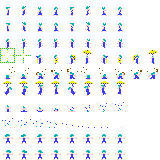
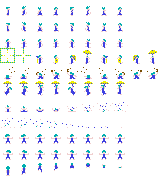
Add safe lemming animation + properly remove lemming after animation

diff --git a/Lemmings/02-Lemming/Lemming.cpp b/Lemmings/02-Lemming/Lemming.cpp
@@ -18,7 +18,7 @@ void Lemming::init(const glm::vec2 &initialPosition, ShaderProgram &shaderProgra
 	pending_state = NULL_STATE;
 	pending_floater = false;
 	sprite = Sprite::createSprite(glm::ivec2(16, 16), glm::vec2(0.1, 16.0f / SPRITE_HEIGHT), lemmingTexture, &shaderProgram);
-	sprite->setNumberAnimations(11);
+	sprite->setNumberAnimations(12);
 	
 		sprite->setAnimationSpeed(LemmingAnims::WALKING_RIGHT, 12);
 		for(int i=0; i<8; i++)
@@ -67,6 +67,10 @@ void Lemming::init(const glm::vec2 &initialPosition, ShaderProgram &shaderProgra
 			sprite->addKeyframe(LemmingAnims::BLOCKER_ANIM, glm::vec2(float(i) / 10, 128.0f / SPRITE_HEIGHT));
 		for (int i = 0; i<8; i++)
 			sprite->addKeyframe(LemmingAnims::BLOCKER_ANIM, glm::vec2(float(i) / 10, 144.0f / SPRITE_HEIGHT));
+
+		sprite->setAnimationSpeed(LemmingAnims::SAFE, 12);
+		for (int i = 0; i<8; i++)
+			sprite->addKeyframe(LemmingAnims::SAFE, glm::vec2(float(i) / 10, 160.0f / SPRITE_HEIGHT));
 		
 	sprite->changeAnimation(LemmingAnims::FALLING_RIGHT);
 	sprite->setPosition(initialPosition);
@@ -184,11 +188,25 @@ void Lemming::update(int deltaTime, int offset)
 			state = DEAD_STATE;
 		}
 		break;
+	case ARRIVE_STATE:
+		if (sprite->keyFrame() == 7) {
+			state = SAFE_STATE;
+		}
+		break;
 	}
 }
 
 bool Lemming::isDead() {
 	return state == DEAD_STATE;
+}
+
+bool Lemming::isArriving()
+{
+	return state == ARRIVE_STATE;
+}
+
+bool Lemming::isSafe() {
+	return state == SAFE_STATE;
 }
 
 bool Lemming::isBusy()
@@ -229,6 +247,12 @@ bool Lemming::setSkill(LemmingSkill newSkill)
 	return true;
 }
 
+void Lemming::lemmingArrived()
+{
+	sprite->changeAnimation(LemmingAnims::SAFE);
+	state = ARRIVE_STATE;
+}
+
 Lemming::LemmingState Lemming::getStateFromSkill(LemmingSkill skill) 
 {
 
@@ -262,16 +286,6 @@ bool Lemming::isSameSkill(LemmingSkill newSkill)
 void Lemming::_dig(LemmingAnims fallAnim, LemmingState fallState)
 {
 	int posX, posY;
-	if (sprite->keyFrame() % 5 == 0) {
-		sprite->position() += glm::vec2(0, 1);
-
-		posX = int(sprite->position().x) + lem_offset + 7;
-		posY = int(sprite->position().y) + 14;
-		for (int y = max(0, posY); y <= min(mask->height() - 1, posY); y++)
-			for (int x = max(0, posX - 4); x <= min(mask->width() - 1, posX + 5); x++)
-				mask->setPixel(x, y, 0);
-	}
-
 	int fall = collisionFloor(3);
 	if (fall > 0) {
 		sprite->position() += glm::vec2(0, 1);
@@ -280,10 +294,20 @@ void Lemming::_dig(LemmingAnims fallAnim, LemmingState fallState)
 		sprite->changeAnimation(fallAnim);
 		state = fallState;
 	}
+	else if (sprite->keyFrame() % 5 == 0) {
+		sprite->position() += glm::vec2(0, 1);
+
+		posX = int(sprite->position().x) + lem_offset + 7;
+		posY = int(sprite->position().y) + 15;
+		for (int y = max(0, posY); y <= min(mask->height() - 1, posY); y++)
+			for (int x = max(0, posX - 4); x <= min(mask->width() - 1, posX + 5); x++)
+				mask->setPixel(x, y, 0);
+	}
+
 }
 
 
-void Lemming::_walk(LemmingAnims fallAnimation, LemmingState fallState) 
+void Lemming::_walk(LemmingAnims fallAnimation, LemmingState fallState)
 {
 	int fall = collisionFloor(3);
 	if (fall > 0)

diff --git a/Lemmings/02-Lemming/Lemming.h b/Lemmings/02-Lemming/Lemming.h
@@ -22,7 +22,7 @@ public:
 	{
 		NULL_STATE, WALKING_LEFT_STATE, WALKING_RIGHT_STATE, FALLING_LEFT_STATE, FALLING_RIGHT_STATE, FALL_DIE_STATE,
 		BLOCKER_RIGHT_STATE, BLOCKER_LEFT_STATE, DIGGER_RIGHT_STATE, DIGGER_LEFT_STATE, FLOATER_RIGHT_STATE, FLOATER_LEFT_STATE,
-		DEAD_STATE
+		DEAD_STATE, ARRIVE_STATE, SAFE_STATE
 	};
 
 public:
@@ -31,6 +31,8 @@ public:
 	void render();
 
 	bool isDead();
+	bool isArriving();
+	bool isSafe();
 	bool isBusy();
 
 	void remove();
@@ -39,9 +41,10 @@ public:
 
 	glm::vec2 getPosition();
 	bool setSkill(LemmingSkill newSkill);
+	void lemmingArrived();
 	
 private:
-	const float SPRITE_HEIGHT = 160.0f;
+	const float SPRITE_HEIGHT = 176.0f;
 
 	const float GRAVITY = 0.05f;
 	const float MAXIMUM_FALL_SPEED = 3.0f;
@@ -58,7 +61,7 @@ private:
 
 	enum LemmingAnims
 	{
-		WALKING_LEFT, WALKING_RIGHT, FALLING_LEFT, FALLING_RIGHT, DIGGING, FLOATER_INI_RIGHT, FLOATER_INI_LEFT, FLOATER_RIGHT, FLOATER_LEFT, FALL_DIE, BLOCKER_ANIM
+		WALKING_LEFT, WALKING_RIGHT, FALLING_LEFT, FALLING_RIGHT, DIGGING, FLOATER_INI_RIGHT, FLOATER_INI_LEFT, FLOATER_RIGHT, FLOATER_LEFT, FALL_DIE, BLOCKER_ANIM, SAFE
 	};
 
 private:

diff --git a/Lemmings/02-Lemming/Scene.cpp b/Lemmings/02-Lemming/Scene.cpp
@@ -82,6 +82,10 @@ void Scene::update(int deltaTime)
 			
 		lemmings[i]->update(deltaTime, int(level.offset));
 		if (lemmings[i]->isDead()) removeLemming(i);
+		else if (lemmings[i]->isSafe()) {
+			removeLemming(i);
+			++safeLemmings;
+		}
 		else checkIfLemmingSafe(i);
 	}
 
@@ -89,7 +93,7 @@ void Scene::update(int deltaTime)
 	if (aliveLemmings == 0) {
 		finishLevel();
 	}
-	spawnDoor->update(deltaTime, currentTime/1000);
+	spawnDoor->update(deltaTime, int(currentTime/1000));
 	door->update(deltaTime, 0);
 	checkSelecting();
 }
@@ -341,11 +345,11 @@ void Scene::checkIfLemmingSafe(int lemmingId) {
 	initialPoint.y += 48 - safeSquare.y / 2;
 	endingPoint.y += 48 - safeSquare.y / 2;
 
-	//if (!lemmings[lemmingId]) return; NO ARREGLA EL ERROR
 	Lemming * lemming = lemmings[lemmingId];
-	if (lemmingColideWith(lemming, initialPoint, endingPoint)) {
-		removeLemming(lemmingId);
-		++safeLemmings;
+	if (!lemmings[lemmingId]->isArriving()) {
+		if (lemmingColideWith(lemming, initialPoint, endingPoint)) {
+			lemmings[lemmingId]->lemmingArrived();
+		}
 	}
 }
 

diff --git a/Lemmings/02-Lemming/cursor.cpp b/Lemmings/02-Lemming/cursor.cpp
@@ -9,16 +9,15 @@ void Cursor::initCursor(ShaderProgram &shaderProgram)
 {
 	spritesheet.loadFromFile("images/lemming.png", TEXTURE_PIXEL_FORMAT_RGBA);
 	spritesheet.setMinFilter(GL_NEAREST);
-	spritesheet.setMagFilter(GL_NEAREST);
-	sprite_h = 160.0f;
-	sprite = Sprite::createSprite(glm::ivec2(16, 16), glm::vec2(0.1, 16.0f / sprite_h), &spritesheet, &shaderProgram);
+	spritesheet.setMagFilter(GL_NEAREST);	
+	sprite = Sprite::createSprite(glm::ivec2(16, 16), glm::vec2(0.1, 16.0f / SPRITE_HEIGHT), &spritesheet, &shaderProgram);
 	sprite->setNumberAnimations(2);
 
 		sprite->setAnimationSpeed(NORMAL, 12);	// NORMAL
-		sprite->addKeyframe(NORMAL, glm::vec2(float(1) / 10, 48.0f / sprite_h));
+		sprite->addKeyframe(NORMAL, glm::vec2(float(1) / 10, 48.0f / SPRITE_HEIGHT));
 
 		sprite->setAnimationSpeed(SELECT, 12);	// SELECTED
-		sprite->addKeyframe(SELECT, glm::vec2(float(0) / 10, 48.0f / sprite_h));
+		sprite->addKeyframe(SELECT, glm::vec2(float(0) / 10, 48.0f / SPRITE_HEIGHT));
 
 	sprite->changeAnimation(0);
 	sprite->setPosition(glm::vec2(0, 0));

diff --git a/Lemmings/02-Lemming/cursor.h b/Lemmings/02-Lemming/cursor.h
@@ -25,6 +25,8 @@ public:
 	};
 
 private:
+	const float SPRITE_HEIGHT = 176.0f;
+
 	Texture spritesheet;
 	Sprite *sprite;
 	float sprite_h;
